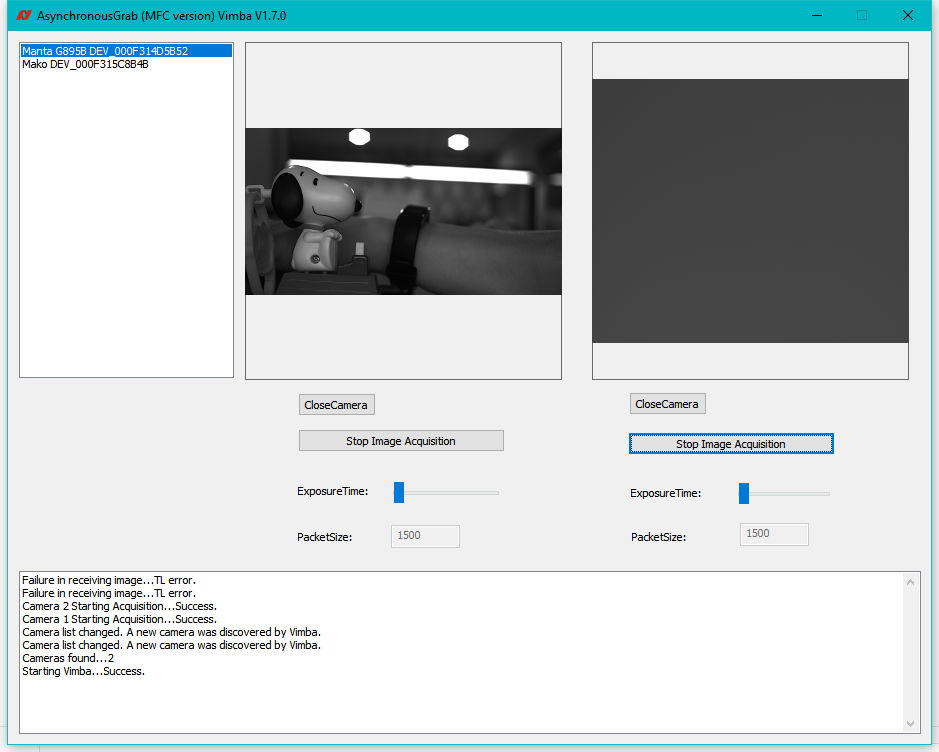
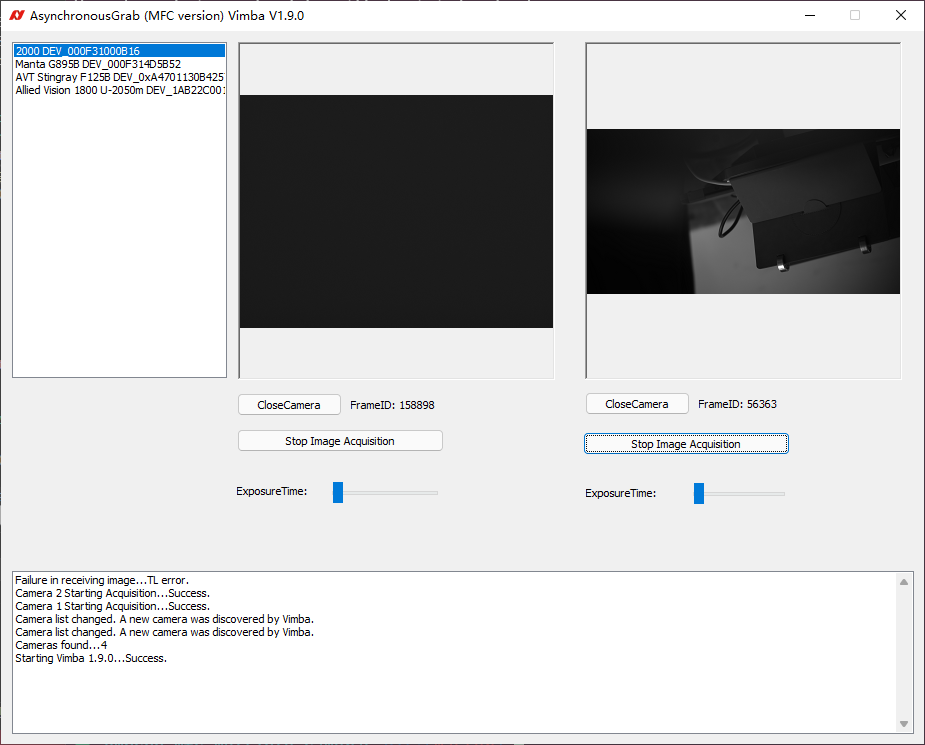
Update screenshot and README.md

diff --git a/README.md b/README.md
@@ -1,6 +1,8 @@
 # mfc_multiple_cameras - Vimba CPP Multiple Cameras Example
 Vimba C++ AsynchronousGrab MFC example with multiple cameras supported.
 
+Support Vimba 6.0 Windows 11.
+
 ## Instruction
 ```
 Remember copy `\Vimba2.1\VimbaCPP\Bin\Win[32|64]\*.dll` files to `\Build\VS2010\Win32\Debug\` folder:  
@@ -22,6 +24,16 @@ Remember copy `\Vimba2.1\VimbaCPP\Bin\Win[32|64]\*.dll` files to `\Build\VS2010\
     <WindowsTargetPlatformVersion>10.0</WindowsTargetPlatformVersion>
   </PropertyGroup>
 ```
+  
+支持 Debug/Release, Win32/x64 等多种编译模式。
+
+
+## 测试
+* Vimba 6.0 on Windows 11.
+* Alvium G1-158
+* Manta G-895b
+
+
 
 ## Screenshot
 ![](screenshot.png)
